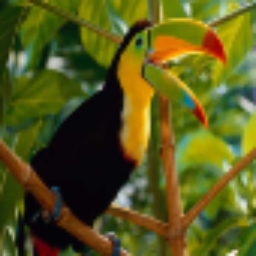
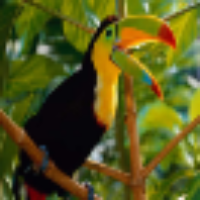
fixed size

diff --git a/main.py b/main.py
@@ -31,7 +31,6 @@ def model(inputShape):
     x = AttentionBlock(32)(x)
     x = DepthwiseSeparableConv_Block(16, 3, strides = 1)(x)
     x = DepthwiseSeparableConv_Block(16, 5, strides = 1)(x)
-    x = AttentionBlock(16)(x)
     x = DepthwiseSeparableConv_Block(8, 3, strides = 1)(x)
     x = DepthwiseSeparableConv_Block(8, 5, strides = 1)(x)
     x = DepthwiseSeparableConv_Block(3, 3, strides = 1)(x)
@@ -57,7 +56,7 @@ def main():
 
     nn = model(inputShape)
     print(nn.summary())
-    optimizer = Adam(lr=1e-2, epsilon = 1e-8, beta_1 = .9, beta_2 = .999)
+    optimizer = Adam(lr=1e-3, epsilon = 1e-8, beta_1 = .9, beta_2 = .999)
     nn.compile(optimizer = optimizer, loss = 'mse')
     
     es = EarlyStopping(monitor = 'loss' , mode = 'min', verbose = 1, 

diff --git a/resize_image.py b/resize_image.py
@@ -8,8 +8,8 @@ def prepare_images(path, factor):
         img = cv2.imread(path + '/' + file)
         print(img.shape)
         h, w, _ = img.shape
-        new_height = 256
-        new_width = 256
+        new_height = 200
+        new_width = 200
         img = cv2.resize(img, (int(new_width), int(new_height)), interpolation = cv2.INTER_LINEAR)
         print('Saving {}'.format(file))
         cv2.imwrite((write_path + file), img)

diff --git a/metrics.py b/metrics.py
@@ -28,7 +28,7 @@ def compare_images(target, ref):
     return scores
 
 target = cv2.imread('re.png')
-ref = cv2.imread('HR.bmp')
+ref = cv2.imread('HR.png')
 
 scores = compare_images(target, ref)
 print(scores)
